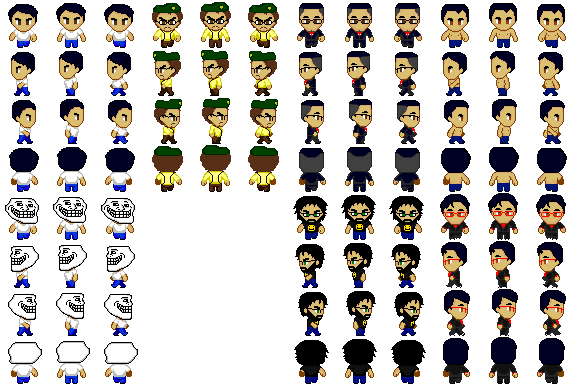
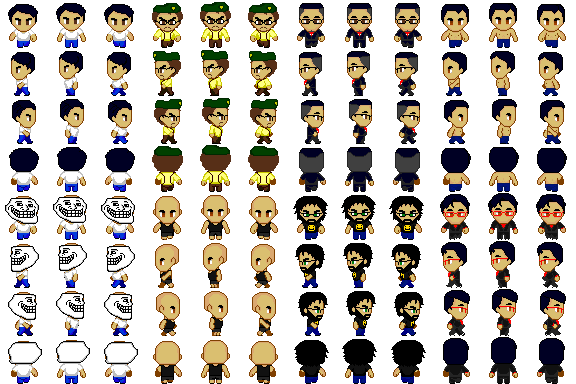
feat: add Adison sprite

diff --git a/js/plugins.js b/js/plugins.js
@@ -11,7 +11,7 @@ var $plugins =
 {"name":"build/MapActorStatus","status":false,"description":"MapActorStatus v1.1.0","parameters":{"EnableMapActorStatusSwitchId":"3","LeaderOnly":"false","StatusAreaX":"40","StatusAreaY":"480","StatusAreaSpace":"40","GaugeWidth":"128","GaugeHeight":"24"}},
 {"name":"build/CharacterCollisionEx","status":false,"description":"CharacterCollisionEx v1.0.2","parameters":{}},
 {"name":"Theo_SkipTitle","status":false,"description":"Skip Title Screen (and auto loads save game)","parameters":{"devmode":"true","skip":"true","load":"false","id":"0"}},
-{"name":"DFR_AutoColors","status":true,"description":"Auto color the registered words","parameters":{"C0":"[]","C1":"[]","C2":"[\"trolls\"]","C3":"[\"autorização\",\"permissão\",\"navio militar\",\"pussy party\",\"excelência\"]","C4":"[]","C5":"[]","C6":"[\"tecla a\",\"tecla x\",\"esc\"]","C7":"[]","C8":"[]","C9":"[]","C10":"[]","C11":"[]","C12":"[]","C13":"[]","C14":"[\"rebrotown\",\"rebr city\",\"raccoon city\",\"silent hill\",\"nersogrado\",\"base militar\"]","C15":"[]","C16":"[\"espada do allan\"]","C17":"[]","C18":"[\"reino dela\"]","C19":"[]","C20":"[\"Nelson\",\"Lucian\",\"Allan\",\"Celio\"]","C21":"[]","C22":"[]","C23":"[]","C24":"[]","C25":"[]","C26":"[]","C27":"[]","C28":"[]","C29":"[]","C30":"[]","C31":"[]"}},
+{"name":"DFR_AutoColors","status":true,"description":"Auto color the registered words","parameters":{"C0":"[]","C1":"[]","C2":"[\"trolls\"]","C3":"[\"autorização\",\"permissão\",\"navio militar\",\"pussy party\",\"excelência\"]","C4":"[]","C5":"[]","C6":"[\"tecla a\",\"tecla x\",\"esc\"]","C7":"[]","C8":"[]","C9":"[]","C10":"[]","C11":"[]","C12":"[]","C13":"[]","C14":"[\"rebrotown\",\"rebr city\",\"raccoon city\",\"silent hill\",\"nersogrado\",\"base militar\"]","C15":"[]","C16":"[\"espada do allan\"]","C17":"[]","C18":"[\"reino dela\"]","C19":"[]","C20":"[\"Nelson\",\"Lucian\",\"Allan\",\"Celio\",\"Mestre Barba\"]","C21":"[]","C22":"[]","C23":"[]","C24":"[]","C25":"[]","C26":"[]","C27":"[]","C28":"[]","C29":"[]","C30":"[]","C31":"[]"}},
 {"name":"DFR_MapWindow","status":false,"description":"[DFR] Altera a aparência da janela de nome de mapa.","parameters":{}},
 {"name":"abs/ABS_Core","status":true,"description":"ABS Core","parameters":{"debugVision":"true"}},
 {"name":"abs/EnemyConfig","status":true,"description":"","parameters":{}},
